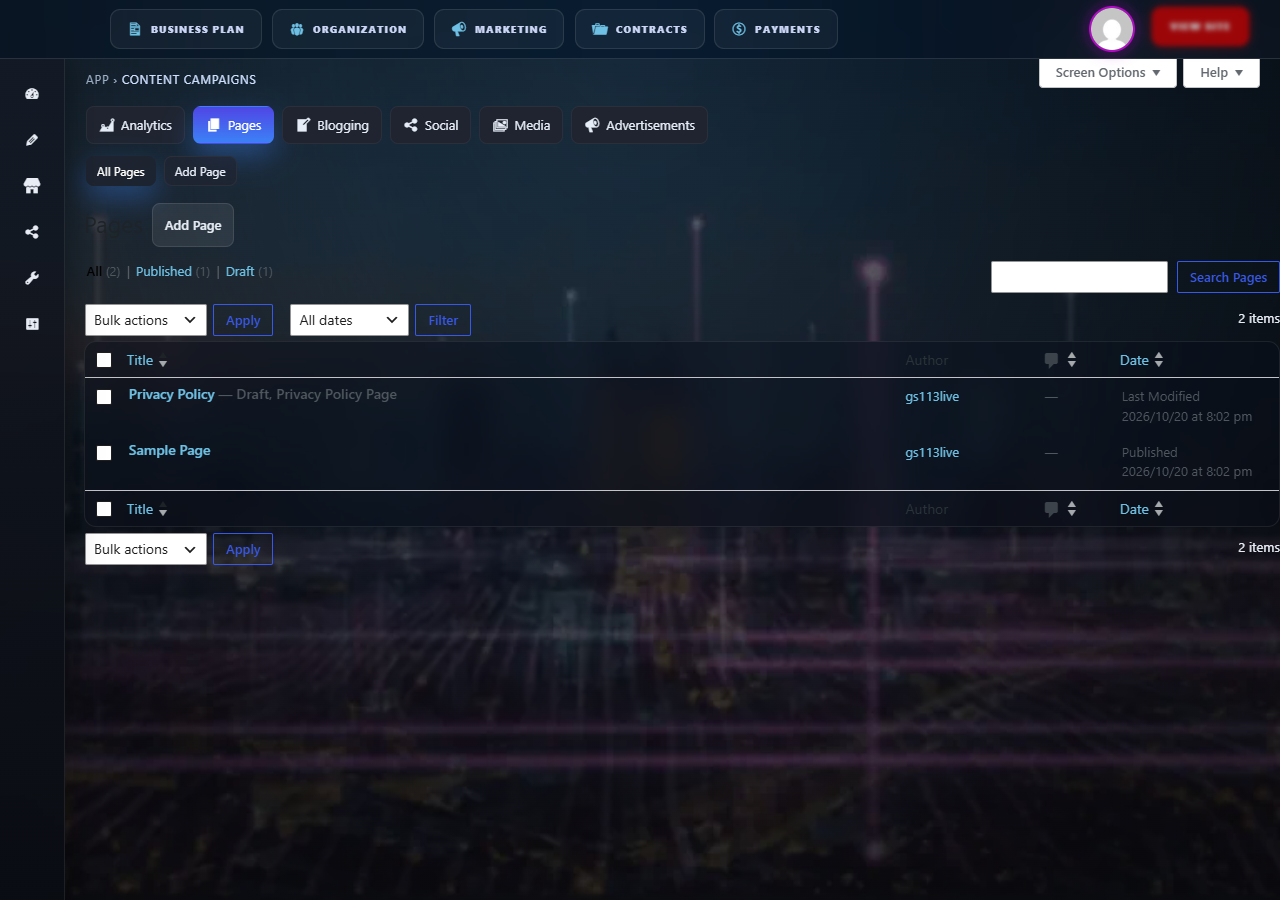
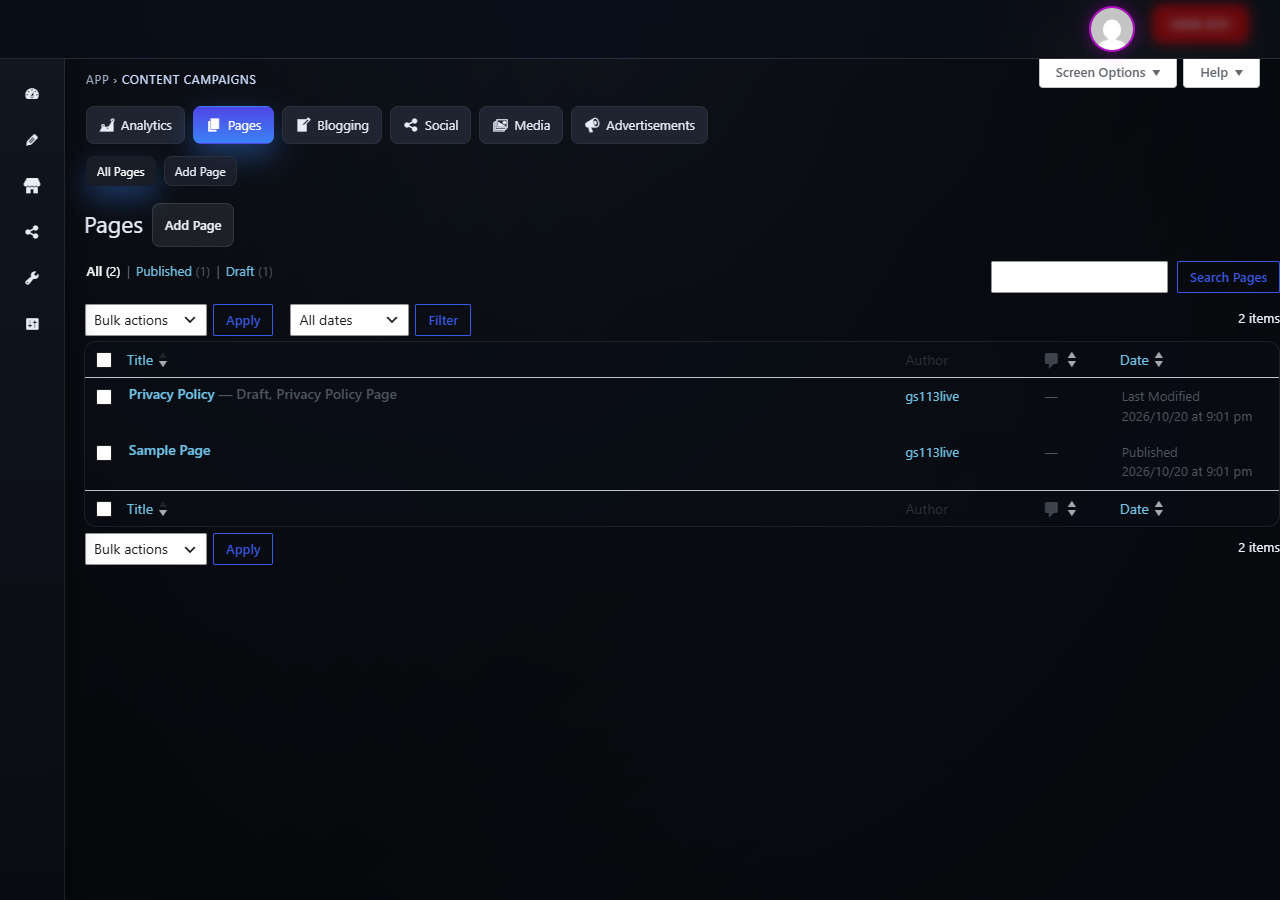
fix(standalone-menu): readable core list titles on the dark skin
- h1.wp-heading-inline and the current status filter are light on standalone (file only loads with the skin)
- screenshot-5 recaptured with the fix

diff --git a/assets/gs-standalone-menu.css b/assets/gs-standalone-menu.css
@@ -138,3 +138,15 @@
 	gap: 8px;
 	margin: 0 0 14px;
 }
+
+/* 113-04: core list-screen titles (e.g. Content Campaigns > Pages = edit.php?post_type=page) keep core's dark
+ * heading colour, which is barely visible on the dark skin. This file only loads on a standalone install with the
+ * GenD skin, so the hub's output is unchanged. */
+.wrap h1.wp-heading-inline {
+	color: #e6edf7;
+}
+
+.wrap .subsubsub a.current,
+.wrap .subsubsub a.current .count {
+	color: #fff;
+}
